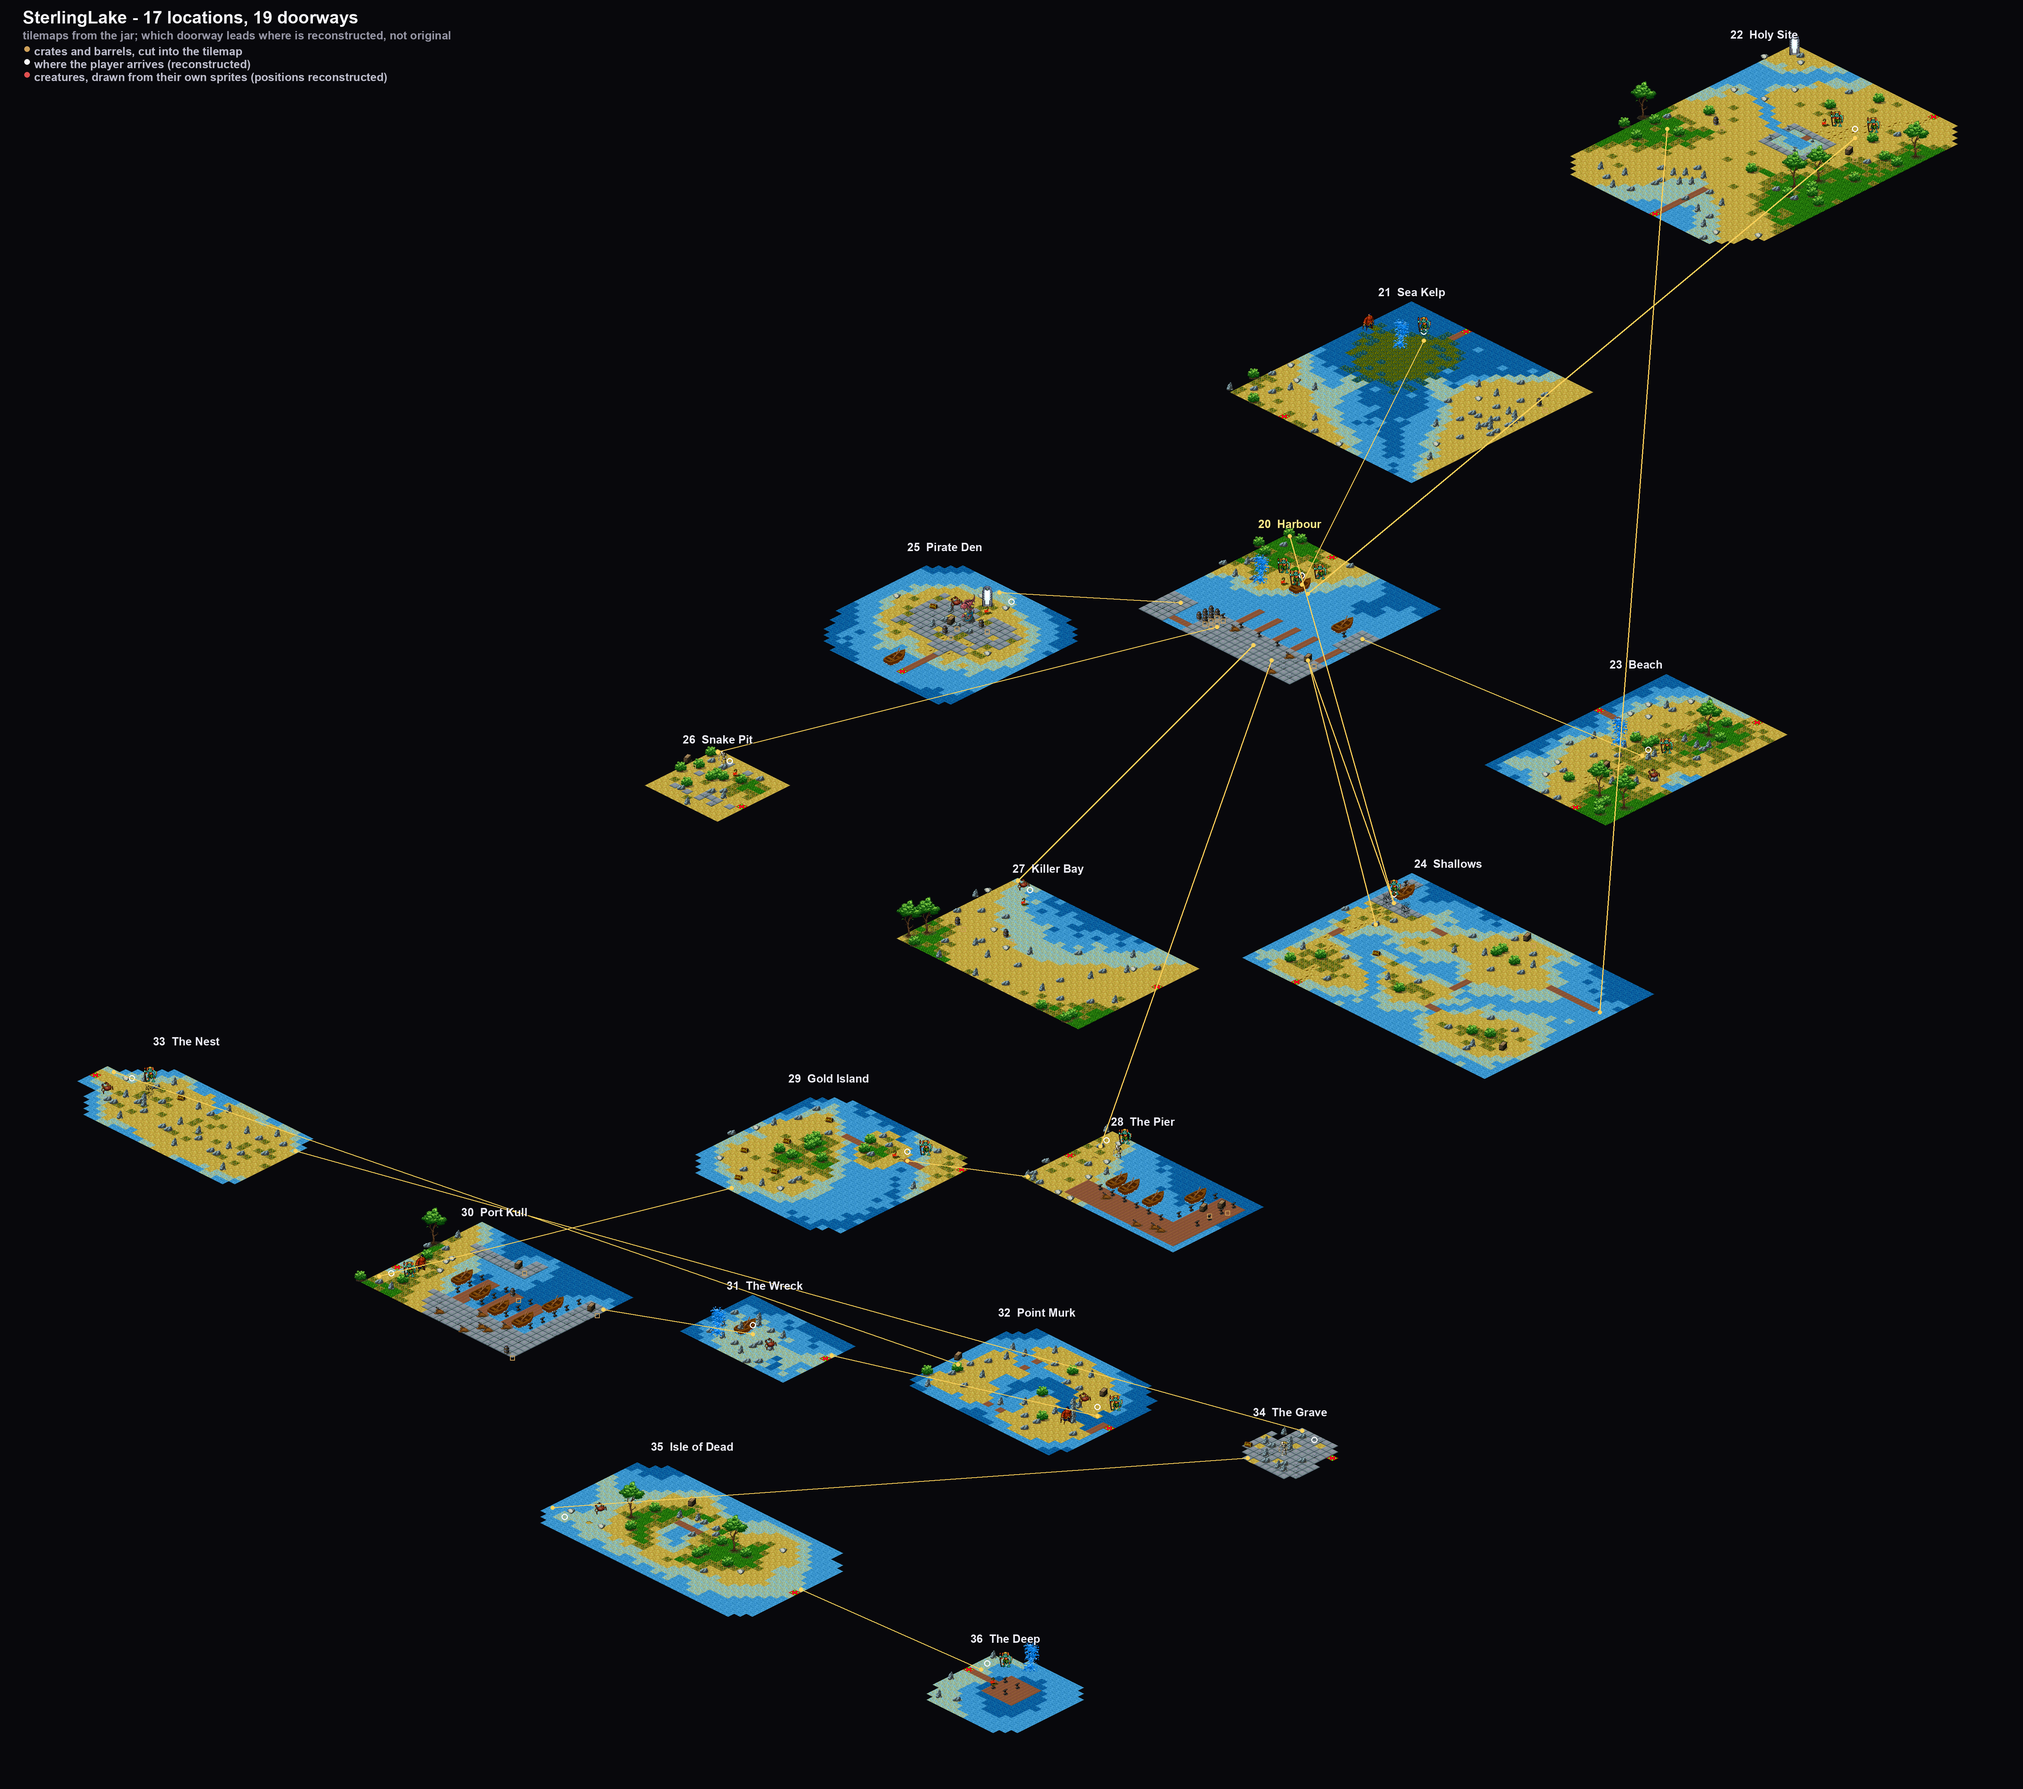
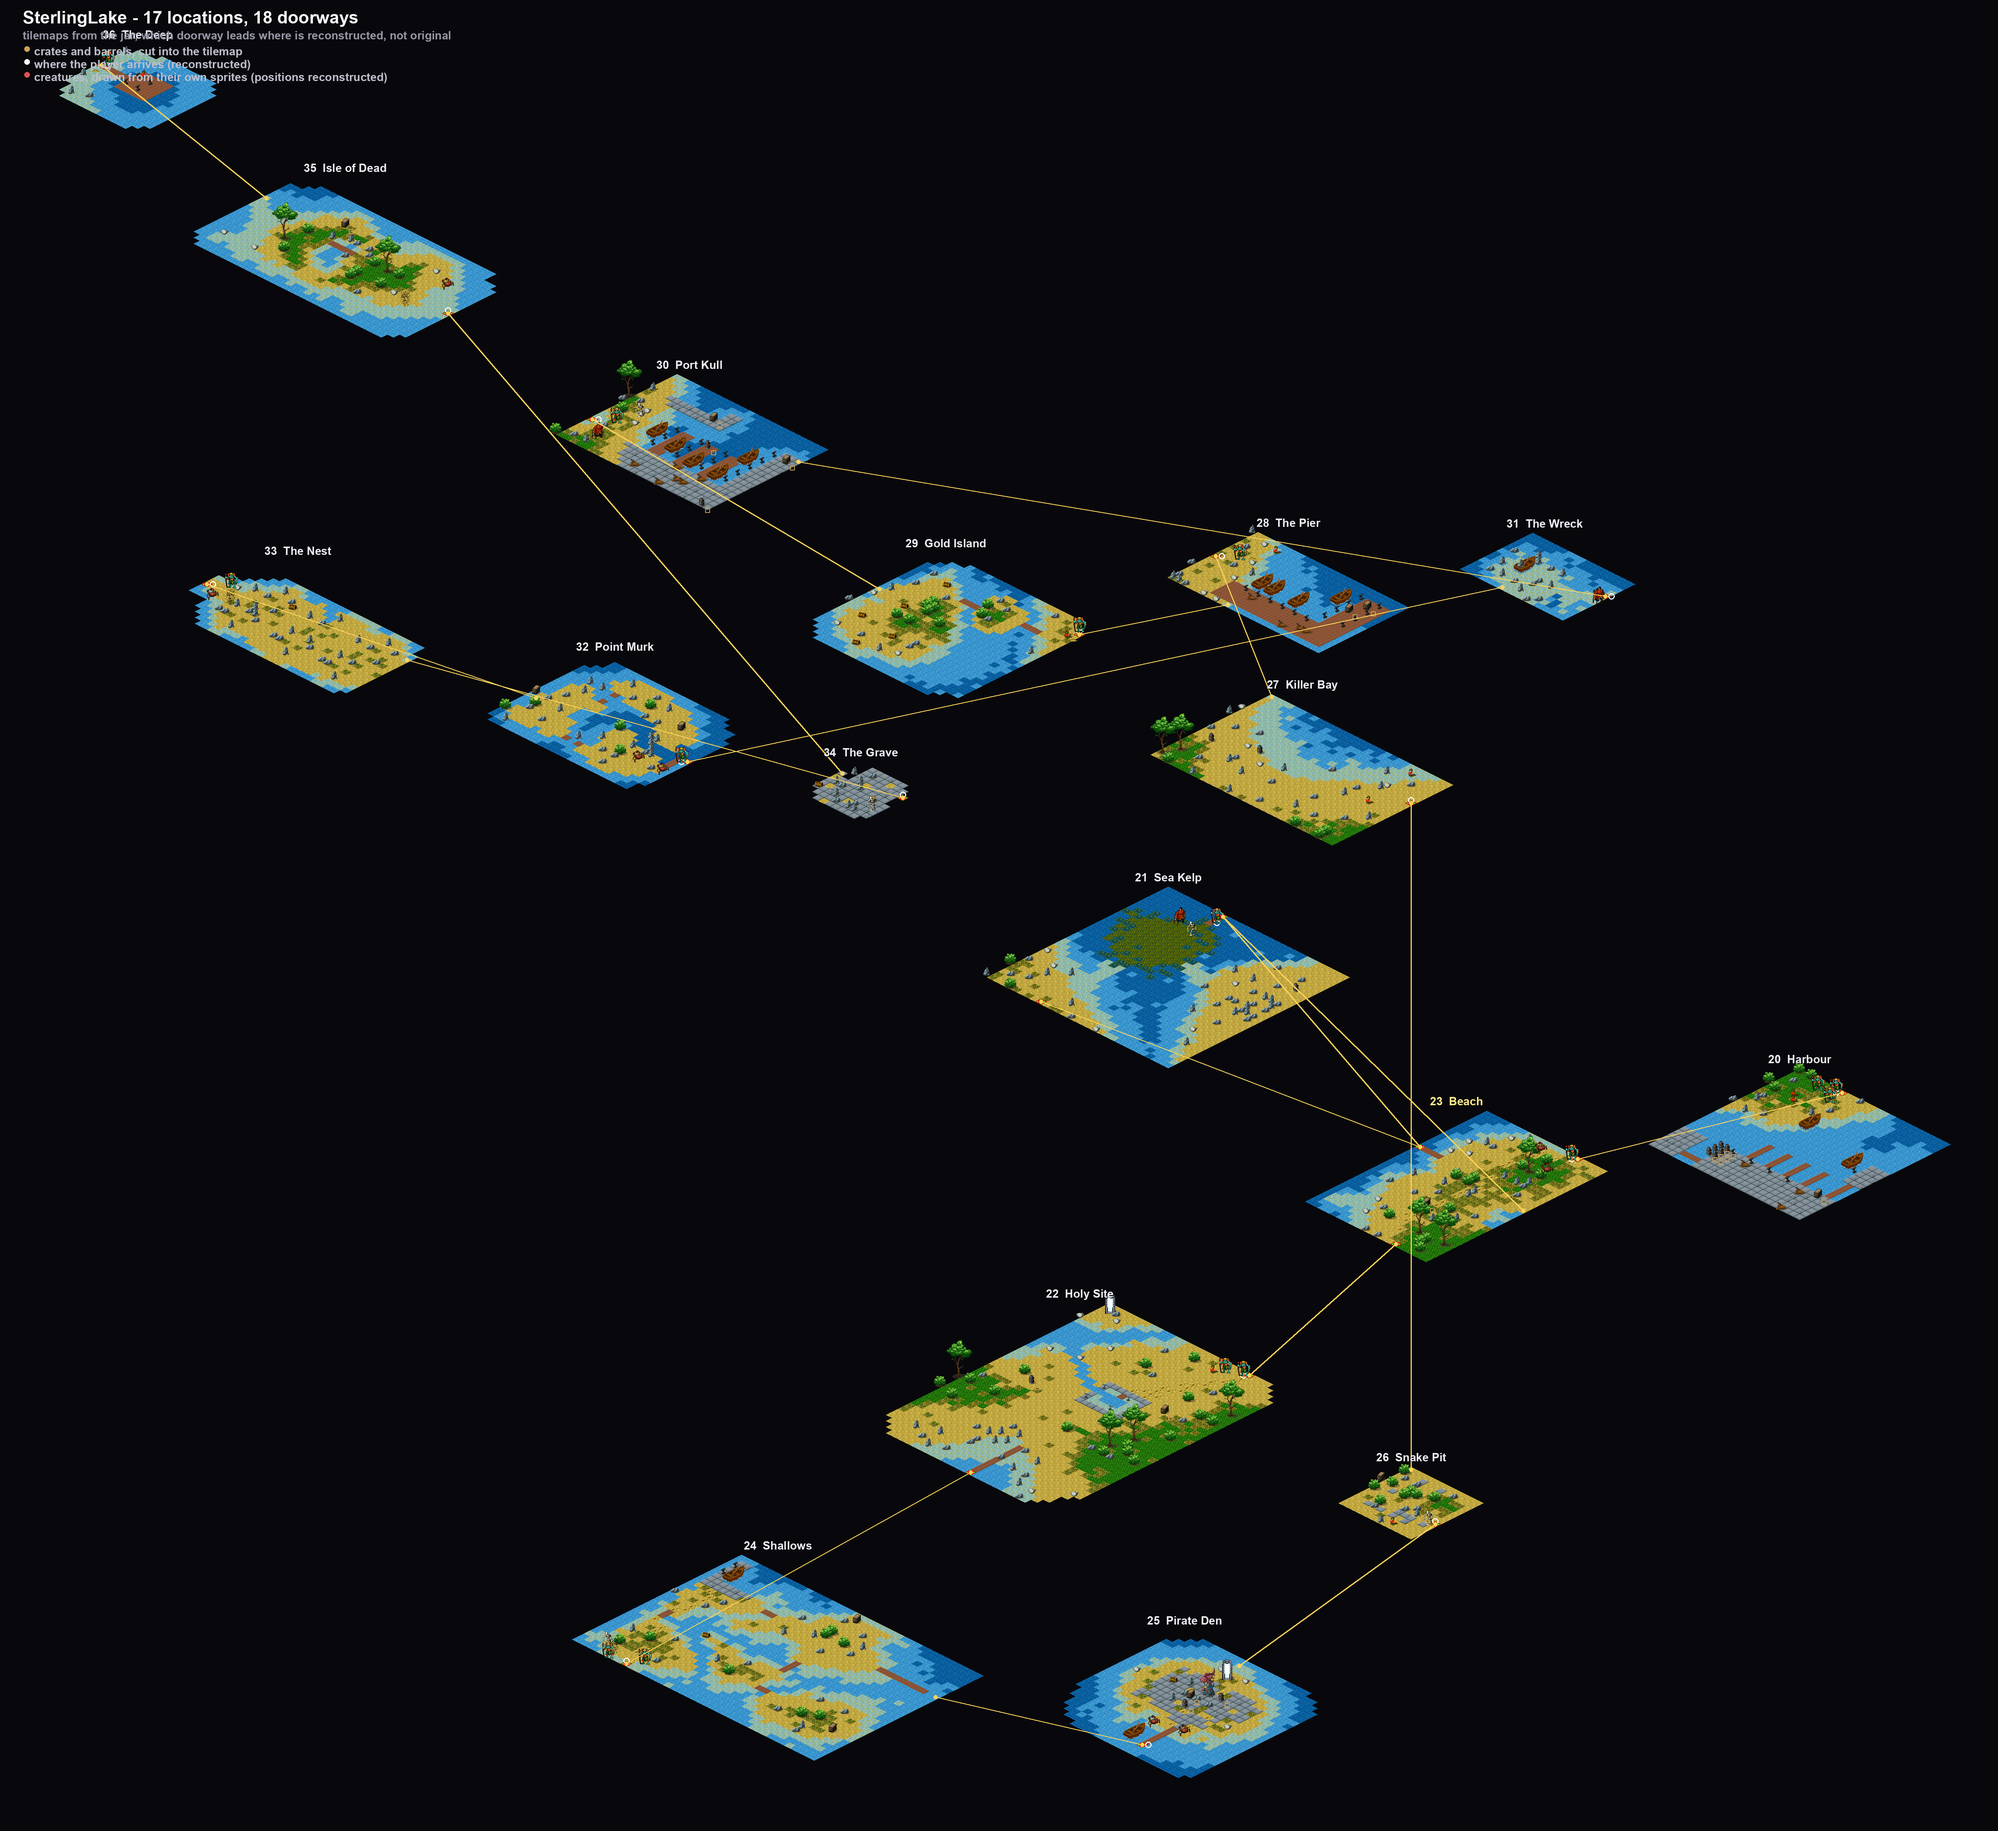
The red tile with the green arrows is a ground tile
Asking why some maps show it and some do not turned out to be the right
question: I had been finding doorways in the wrong place all along.

The doorway is painted into the GROUND — a tile that is about 70% red
and a quarter green, exactly the "red tiles marked with green arrows"
the game's own help text describes. Its index differs per chapter, 12 in
Shirad's Forge and 14 in Sterling Lake, so World.marker finds it in the
type 4 sheet by those colours rather than hardcoding it; the two score
identically because it is the same piece of art filed twice.

What I had been reading instead was high nibble 1, which inverts the
walk test. That is not a doorway, it is the artist opening ground the
mask closes and closing ground it opens — the Harbour's nine are its
piers, laid over water. Renamed is_override, and the two sets never
overlap in either chapter, which is the tell I missed.

The consequences are all good. Every location has a painted doorway
except The Forge: the ten Shirad's Forge locations I called doorless
have one each. Doorways are ordinary walkable ground, so the trigger box
goes back to the tile itself, radius 0 — you step on a doorway to use
it, rather than the awkward ring the old reading forced. Painted
doorways in use go from 15 to 22 and from 23 to 21 of 21.

diff --git a/server/world.py b/server/world.py
@@ -124,9 +124,14 @@ class TileMap:
 
     CRATE, BARREL = 10, 11
 
-    def is_exit(self, x, y):
-        """High nibble 1 flips the walkability test — in practice these are the
-        'red tiles marked with green arrows' that move you between locations."""
+    def is_override(self, x, y):
+        """High nibble 1 flips the walkability test for this tile.
+
+        Not a doorway, which is what this used to be called. It is how the
+        artist opens ground that the walk mask closes and closes ground it
+        opens — the Harbour's nine are its piers, laid over water. The
+        doorways are a GROUND tile: see World.marker.
+        """
         return (self.tile(x, y) & 240) == 16
 
 
@@ -176,6 +181,7 @@ class World:
         self.game = game
         self.res = res or Resources(jar_path(game))
         self.maps = {}
+        self._marker = None
         self._names = {}
         self.locations = sorted(
             int(n[1:], 16) for n in self.res.files
@@ -273,13 +279,49 @@ class World:
 
     # -- geography ----------------------------------------------------------
 
+    @property
+    def marker(self):
+        """The ground index of the doorway tile — the red one with the green
+        arrows the help text describes.
+
+        It is a painted GROUND tile, not a flag in the high nibble, and its
+        index differs per chapter: 12 in Shirad's Forge, 14 in Sterling Lake.
+        Rather than hardcode that, find it in the type 4 sheet by its own
+        colours. Nothing else in either palette is 70% red and a quarter
+        green; the two chapters score identically because it is the same
+        piece of art filed at a different index.
+        """
+        if self._marker is None:
+            import io
+            from PIL import Image
+            ids = [int(n[1:] or "0", 16) for n in self.res.files
+                   if re.fullmatch(r"4[0-9a-f]*", n)]
+            best = (0, 1)
+            if ids:
+                sheet = Image.open(io.BytesIO(self.res.get(4, ids[0])))
+                sheet = sheet.convert("RGBA")
+                for i in range(sheet.height // 15):
+                    strip = sheet.crop((0, i * 15, 32, (i + 1) * 15))
+                    red = green = n = 0
+                    for r, g, b, a in list(strip.getdata()):
+                        if a < 128:
+                            continue
+                        n += 1
+                        red += r > 150 and g < 90 and b < 90
+                        green += g > 150 and r < 120 and b < 120
+                    if n and (red / n) * (green / n) > best[0]:
+                        best = ((red / n) * (green / n), i + 1)
+            self._marker = best[1]
+        return self._marker
+
     def exit_tiles(self, location):
-        """The 'red tiles marked with green arrows'. Adjacent ones are one
-        doorway, so collapse them into clusters."""
+        """Every doorway the artist painted in a location. Adjacent ones are
+        one doorway, so collapse them into clusters."""
         mp = self.map(location)
         if not mp:
             return []
-        raw = [(x, y) for y in range(mp.h) for x in range(mp.w) if mp.is_exit(x, y)]
+        raw = [(x, y) for y in range(mp.h) for x in range(mp.w)
+               if (mp.tile(x, y) & 15) == self.marker]
         clusters = []
         for x, y in raw:
             for c in clusters:
@@ -375,7 +417,7 @@ class World:
         best = None
         for y in range(mp.h):
             for x in range(mp.w):
-                if not mp.walkable(x, y) or mp.is_exit(x, y):
+                if not mp.walkable(x, y) or (mp.tile(x, y) & 15) == self.marker:
                     continue
                 near = min((max(abs(x - ax), abs(y - ay))
                             for ax, ay in avoid), default=99)
@@ -401,12 +443,9 @@ class World:
         """A walkable tile to stand on: just outside a doorway's trigger box if
         there is one, else near the middle.
 
-        "Just outside" is the whole point. An exit tile itself is not walkable
-        — d.b() inverts the walk test for high nibble 1, so a doorway laid on
-        ordinary ground reads as blocked — which is why the trigger box has to
-        cover the tiles AROUND the doorway rather than the doorway. Arrive
-        inside that box and the exit fires again the instant the map loads,
-        and the two locations bounce the player back and forth forever.
+        Standing next to it rather than on it is the whole point: arrive on a
+        doorway and it fires again the instant the map loads, and the two
+        locations bounce the player back and forth forever.
         """
         mp = self.map(location)
         if not mp:
@@ -414,7 +453,7 @@ class World:
         exits = list(self.doorway_tiles(location))
 
         def clear(x, y):
-            if not mp.walkable(x, y) or mp.is_exit(x, y):
+            if not mp.walkable(x, y) or (mp.tile(x, y) & 15) == self.marker:
                 return False
             return all(max(abs(x - ex), abs(y - ey)) > EXIT_RADIUS
                        for ex, ey in exits)
@@ -507,7 +546,7 @@ class World:
                 x, y = ax + rng.randint(-5, 5), ay + rng.randint(-5, 5)
                 if (x, y) == (ax, ay) or self.mob_at(x, y, loc):
                     continue
-                if mp.walkable(x, y) and not mp.is_exit(x, y):
+                if mp.walkable(x, y) and (mp.tile(x, y) & 15) != self.marker:
                     m = Mob(self.next_node, loc, x, y, creature,
                             hp=6 + 2 * placed + 2 * self.locations.index(loc))
                     m.anim = self.anim(creature, "idle")
@@ -942,10 +981,12 @@ def entity(state, location, kind, tail=b"", box=None, trigger=0,
     return r
 
 
-# How far the trigger box reaches around a doorway tile. It must be at least
-# 1: the doorway tile itself cannot be stood on (see spawn_point), so a box
-# covering only the tile can never fire.
-EXIT_RADIUS = 1
+# How far the trigger box reaches around a doorway tile. Zero: a doorway is
+# ordinary walkable ground with a red tile painted on it, so the box is the
+# tile, and you step on it to use it. (This was 1 while doorways were being
+# looked for in the high nibble, which finds the walk-mask overrides instead —
+# piers and the like — and those really cannot be stood on.)
+EXIT_RADIUS = 0
 
 
 def exit_entity(state, location, x, y, dest, dx, dy, radius=EXIT_RADIUS,

diff --git a/tools/render_map.py b/tools/render_map.py
@@ -99,7 +99,7 @@ def render(w, loc, annotate=True, bg=(10, 10, 16, 255)):
     if annotate:
         d = ImageDraw.Draw(img)
         for x, y in order:
-            if mp.is_exit(x, y):
+            if mp.is_override(x, y):
                 sx, sy = screen(x, y)
                 d.ellipse((sx + 8, sy + 2, sx + 24, sy + 14),
                           outline=(80, 255, 80, 255), width=2)
